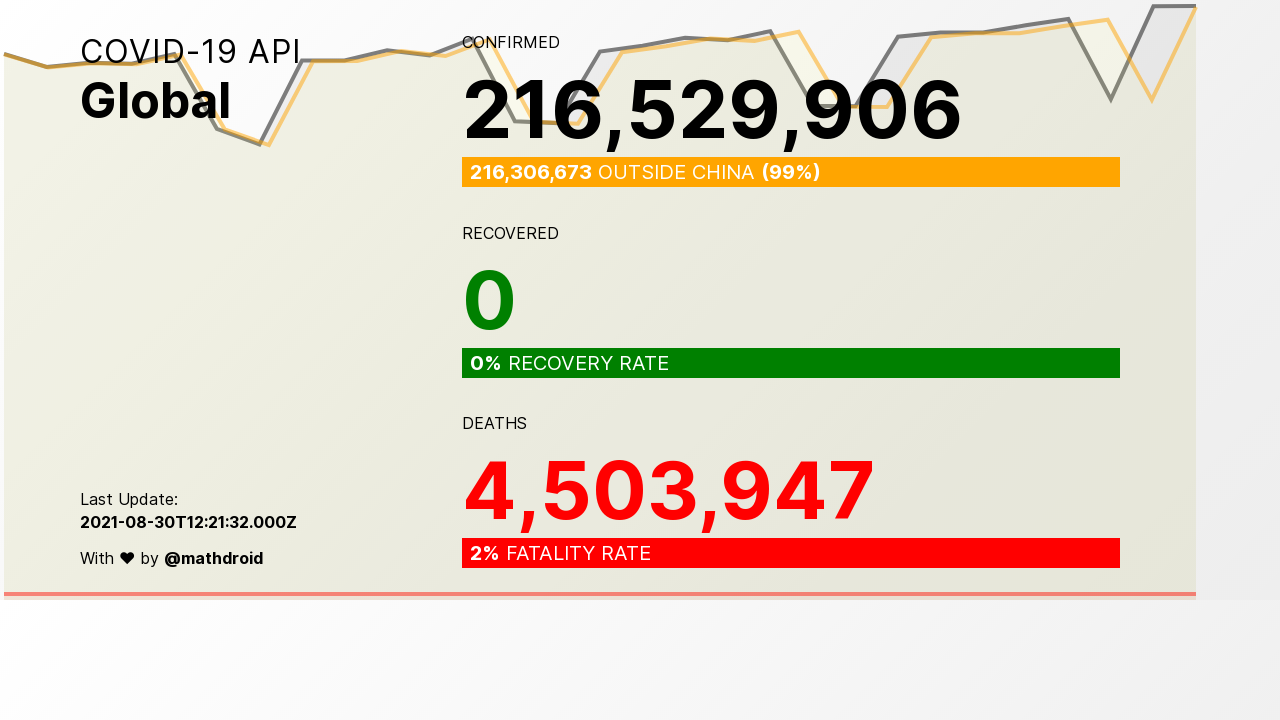
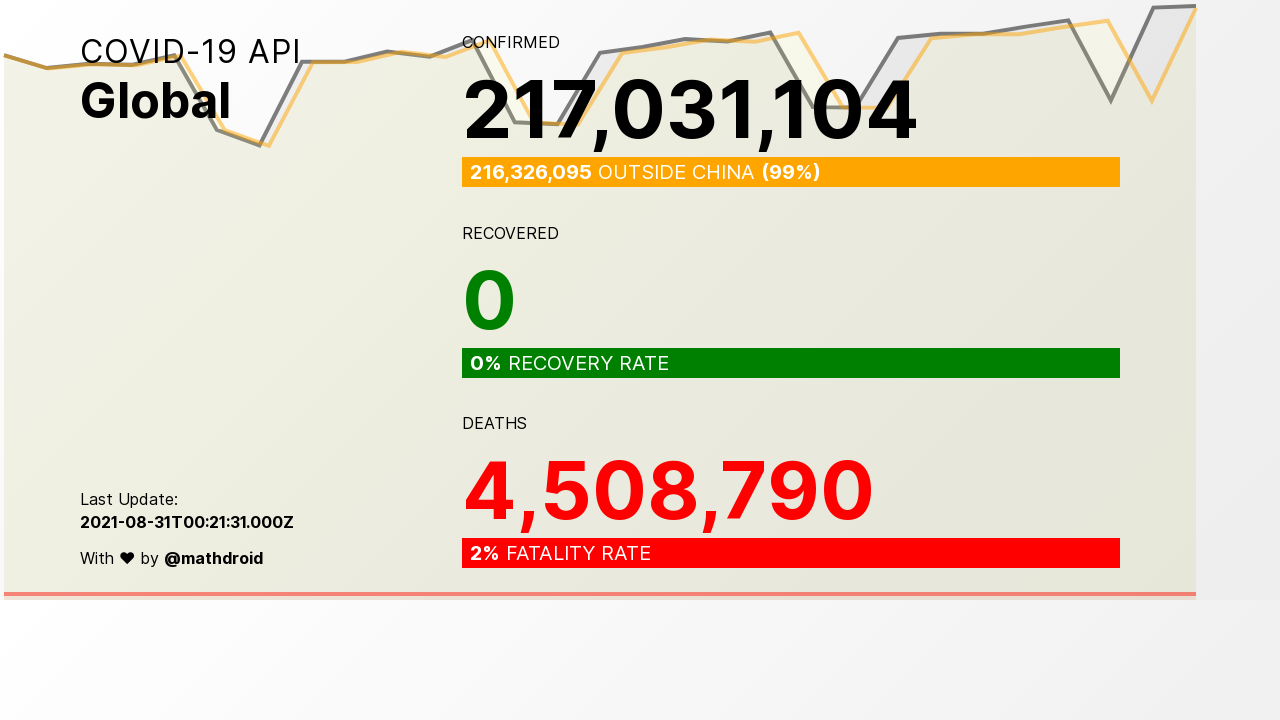
Add changes

diff --git a/README.md b/README.md
@@ -1,6 +1,6 @@
 # store covid daily api as json data
 
-- last cronjob : Monday, 30 August 2021 13:19:23
+- last cronjob : Tuesday, 31 August 2021 00:42:16
 - status og cron : success
 - status daily cron : success
       
